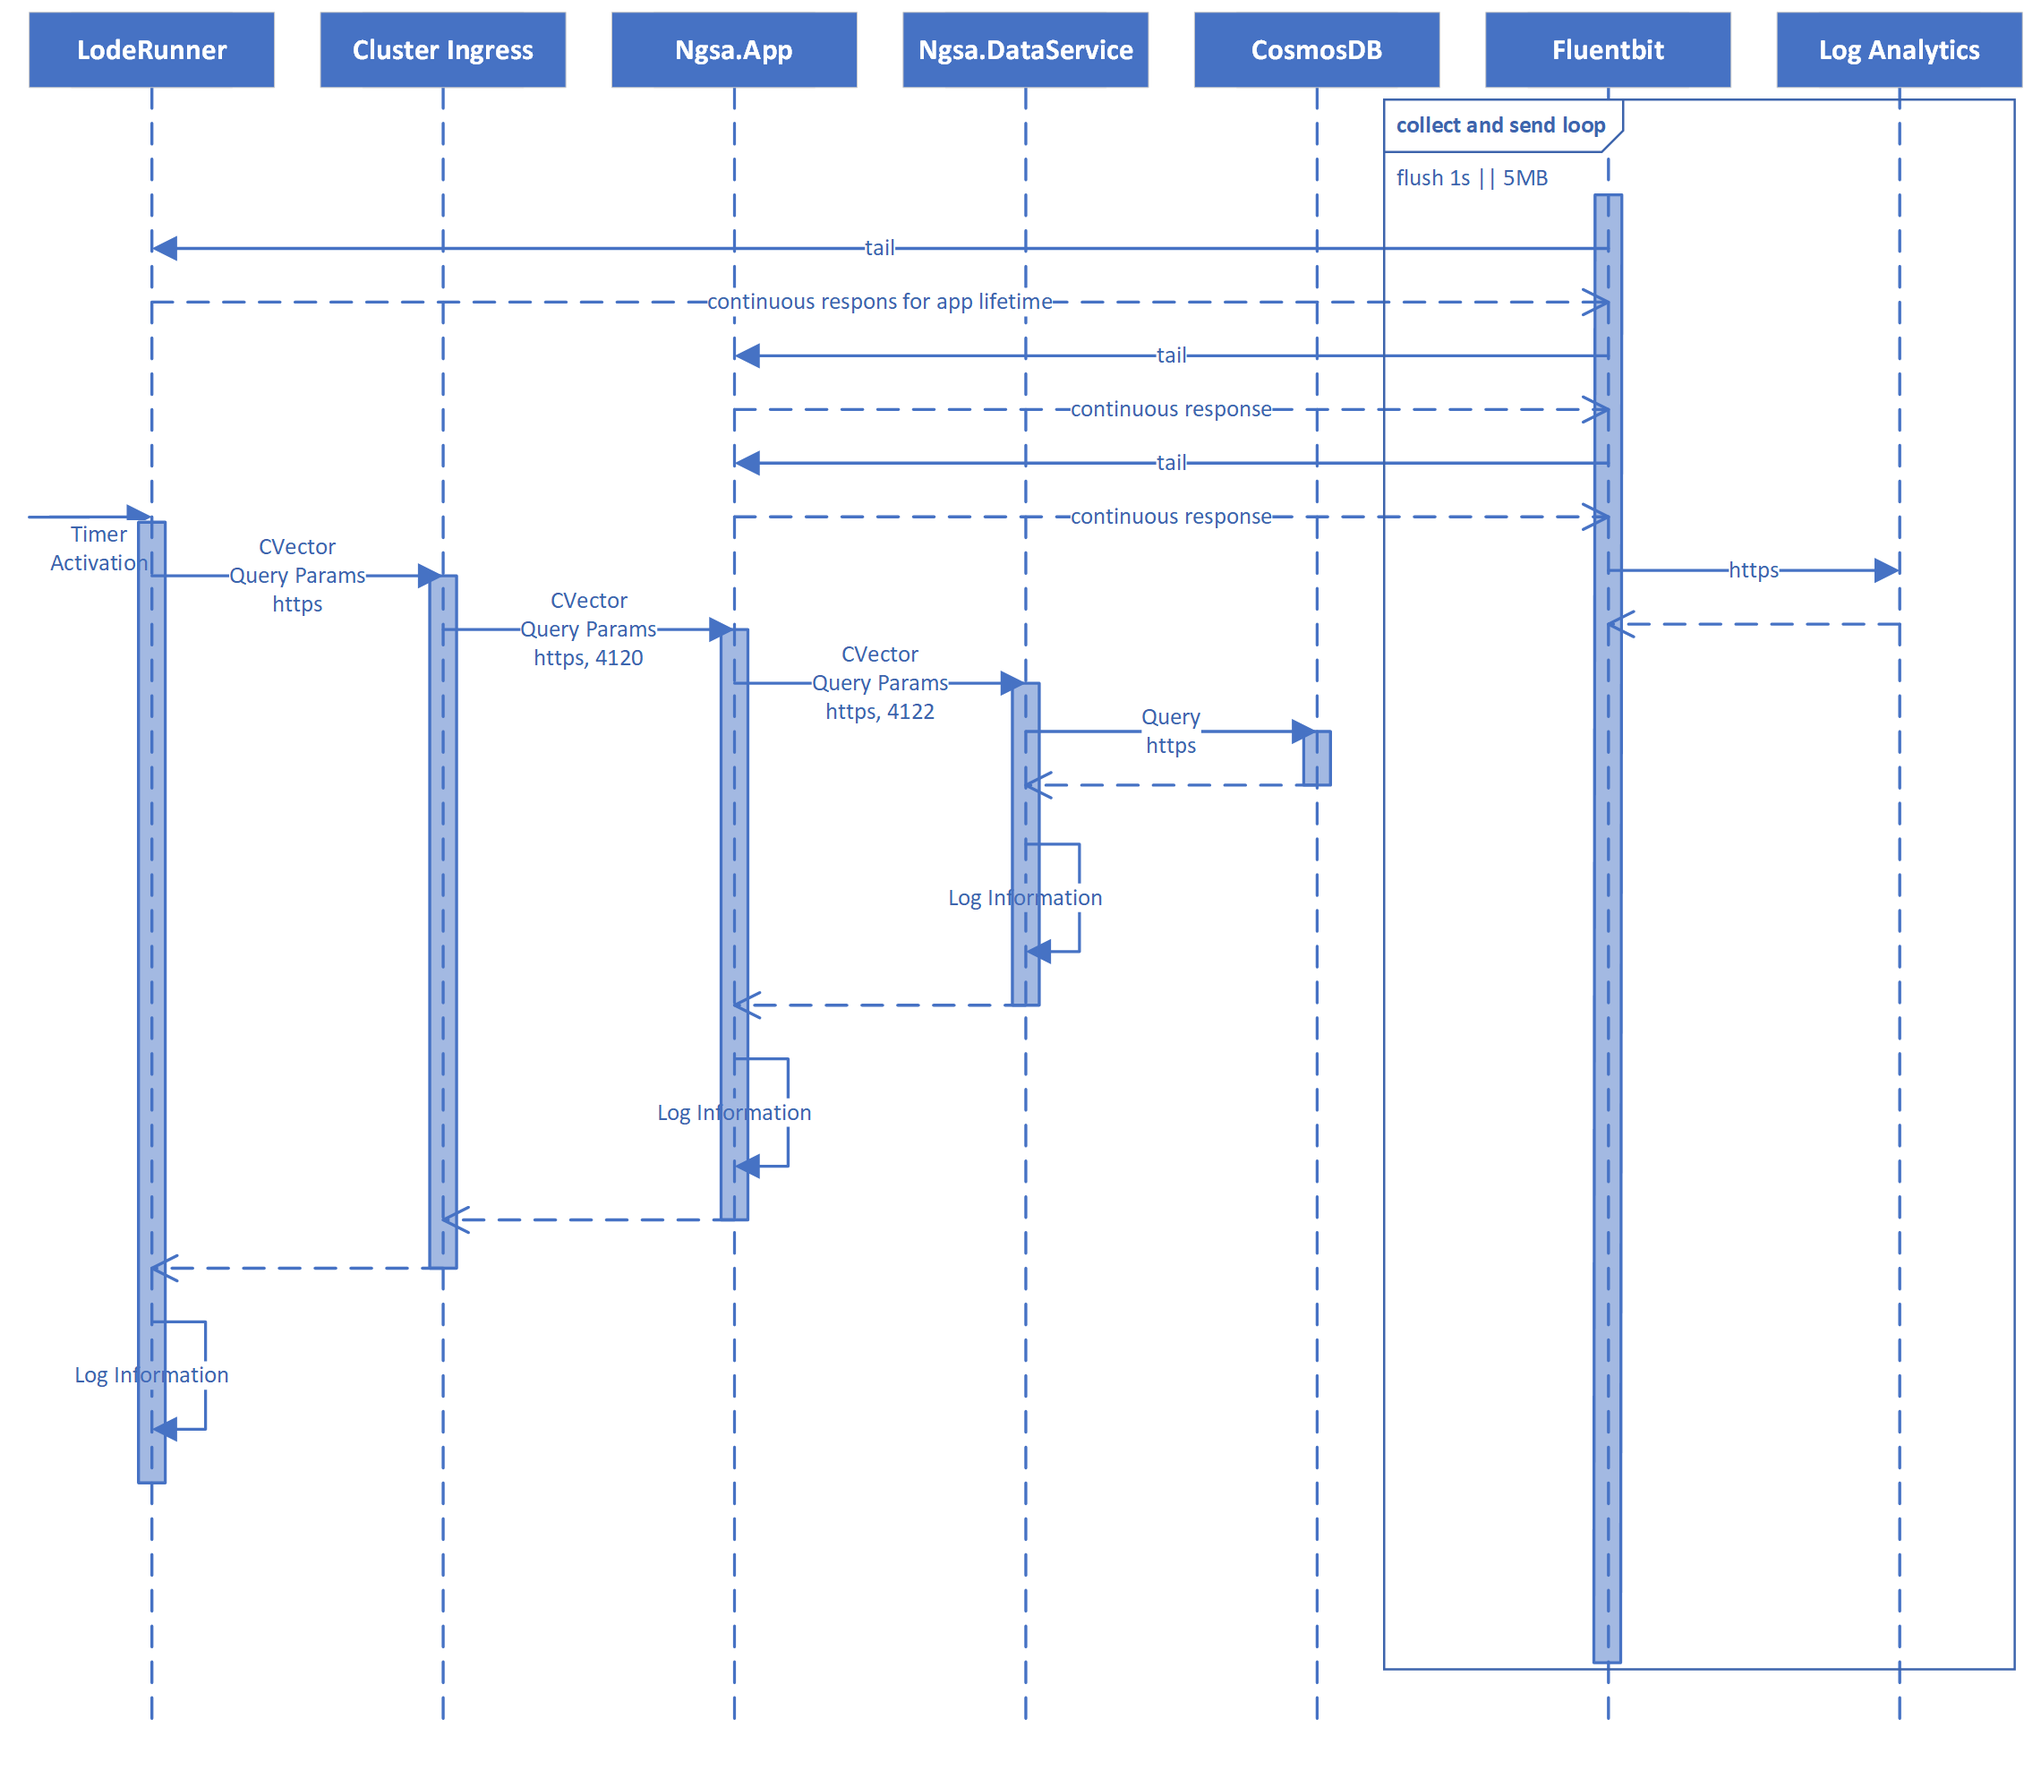
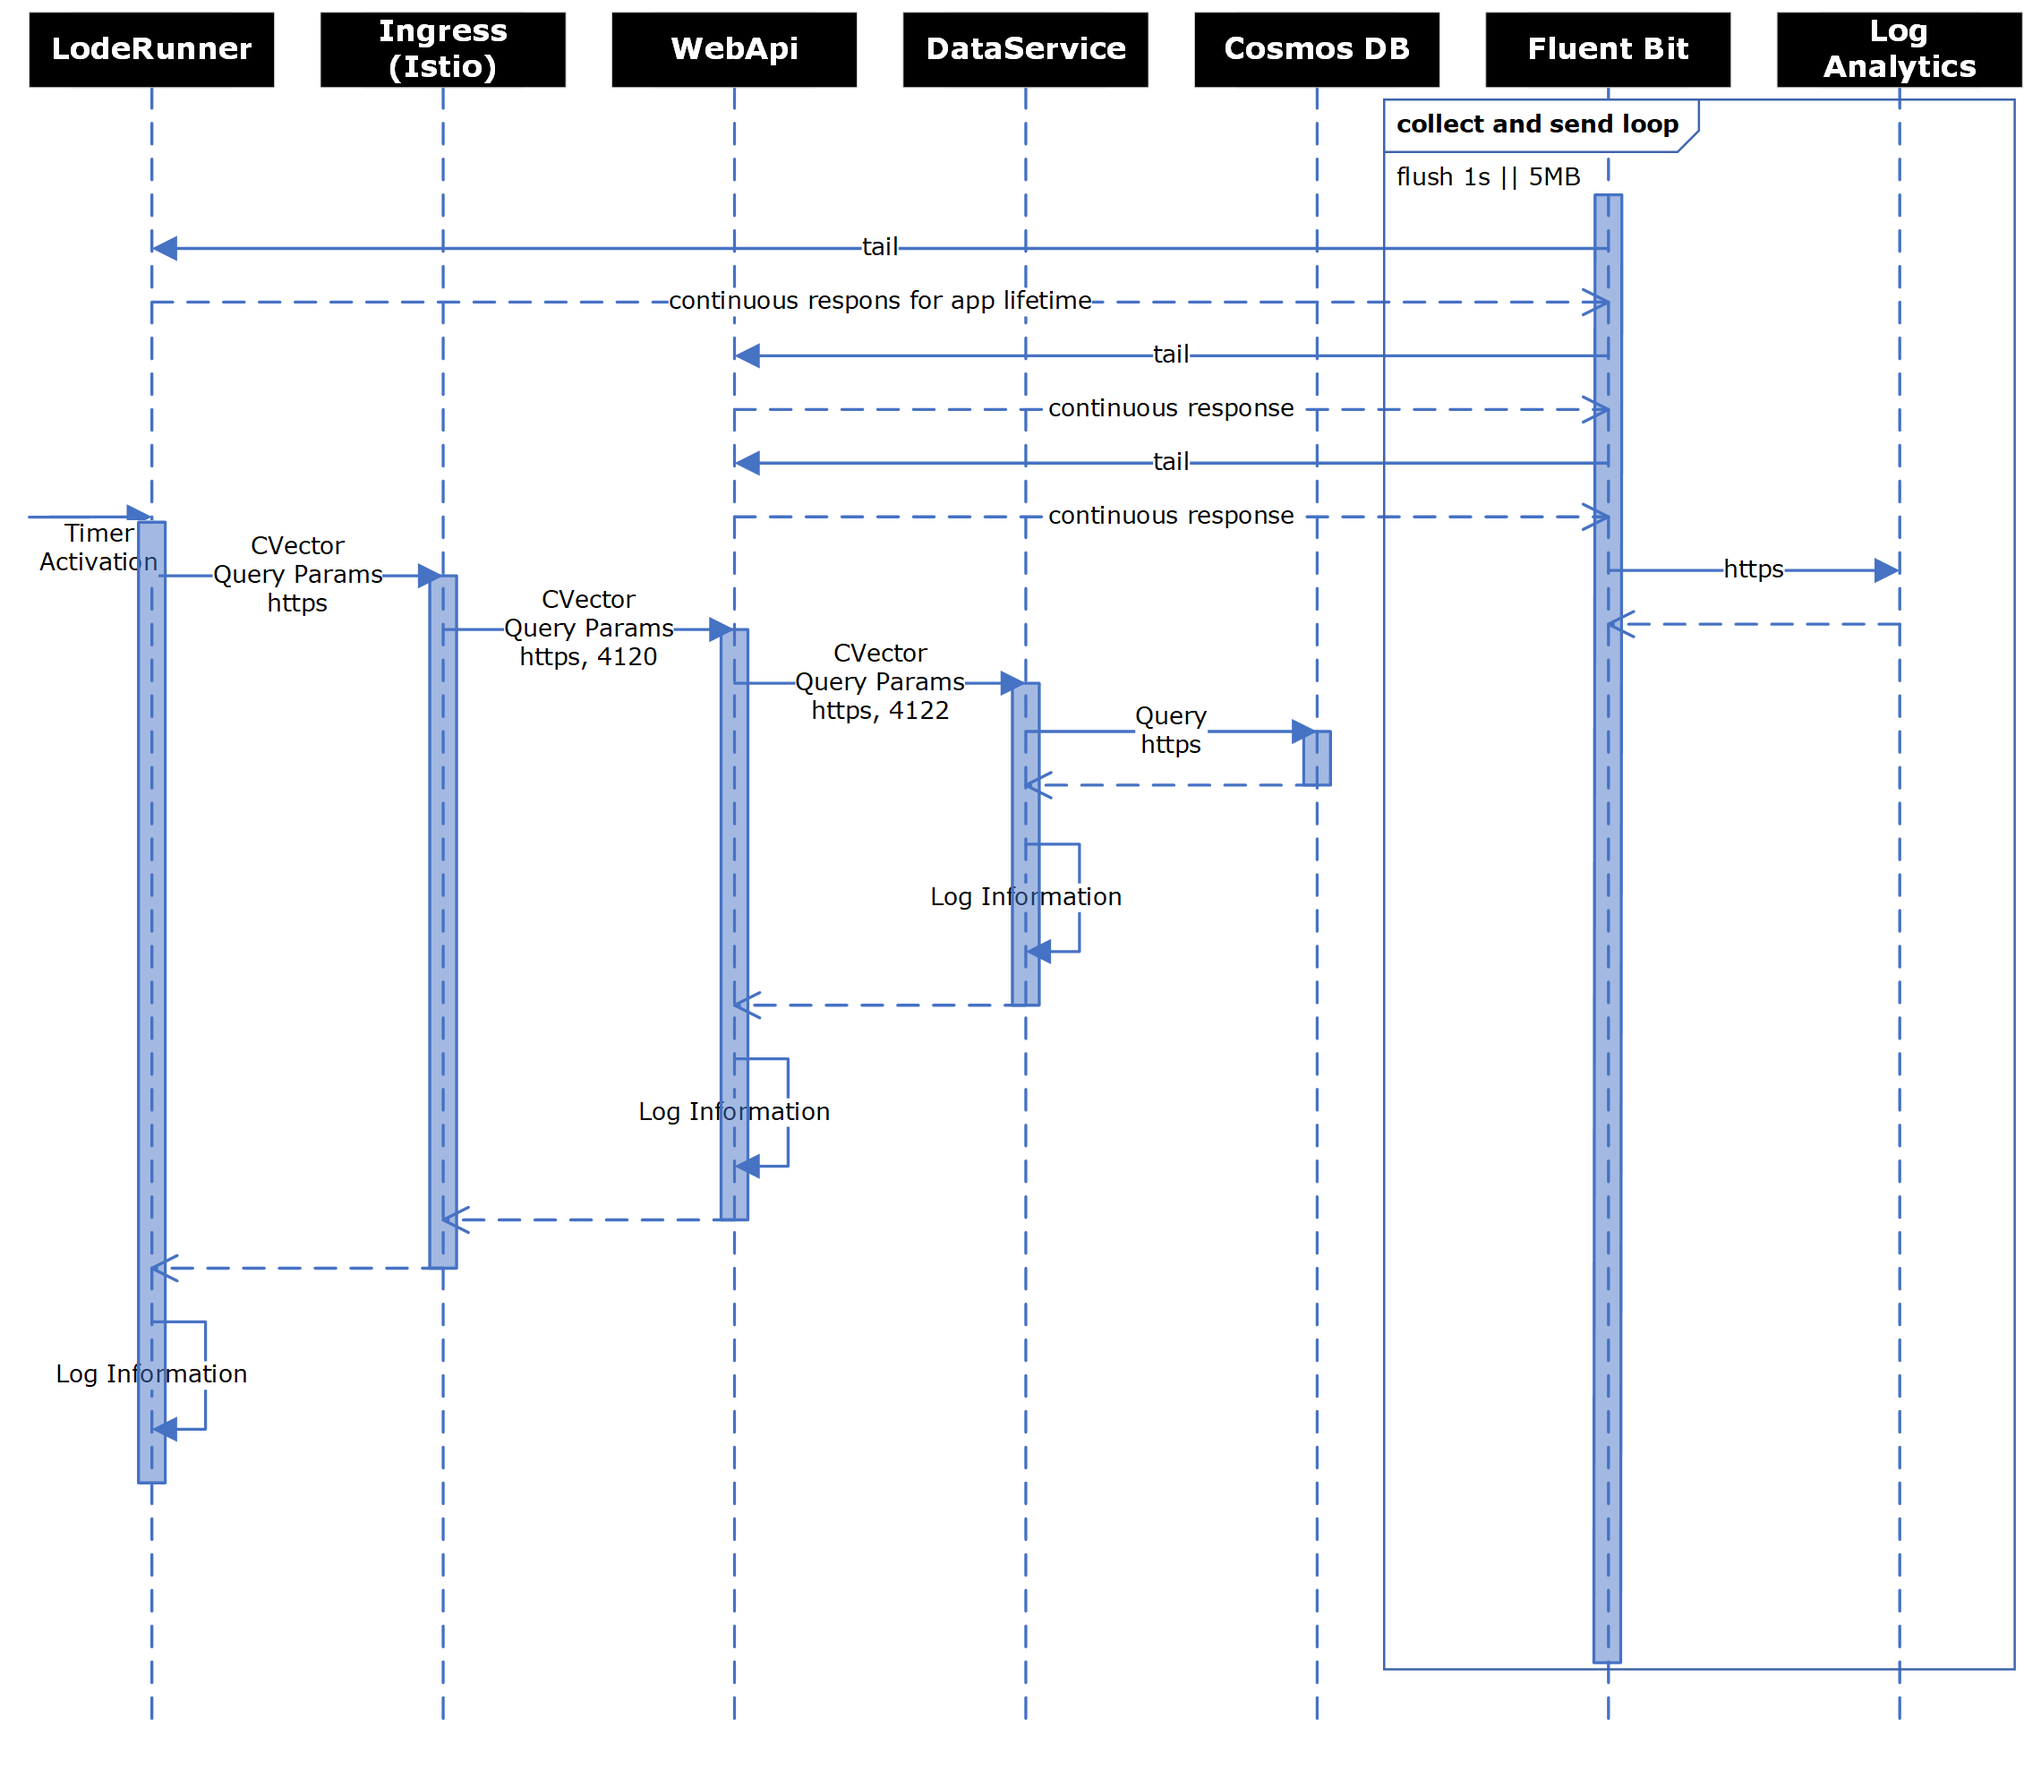
Doc updates (#321)
* removed "Proposal"

* updated HL text and added sequence image

* moved sequence to images

* Fixed grammar on title

* updated width of image

* updated image

* updated image and resolution

* updated image for readability

* removed unneeded section

* fixed spelling

* fixed md linter issue

diff --git a/docs/ApplicationArch.md b/docs/ApplicationArch.md
@@ -8,7 +8,7 @@ The application is made of several components that are intended to validate the 
 
 <!-- markdownlint-disable MD033 -->
 <!-- couldn't get sizing to work in standard markdown -->
-<img src="./images/ngsa-request-sequence.png" width="550" height="600"/>
+<img src="./images/ngsa-request-sequence.png" width="1027" height="768"/>
 
 `NGSA Request Sequence`
 
@@ -52,7 +52,5 @@ All expected logs are sent to `stdout`.
 All errors (e.g., 500 returns) are sent to `stderr`.
 
 ### Correlation Vectors
-
-### Deployment YAML
 
 [TODO]

diff --git a/docs/NamingConvention.md b/docs/NamingConvention.md
@@ -23,7 +23,7 @@ Azure resources consists of four parts: `( project-short-form )-[ environment-ty
 - Examples:
   - `ngsa-dev-grafana-kv`
   - `ngsa-pre-istio-cosmos`
-  - `ngsa-prod-grafana-appi`
+  - `ngsa-prod-grafana-app`
 
 ## Kubernetes Labels
 
